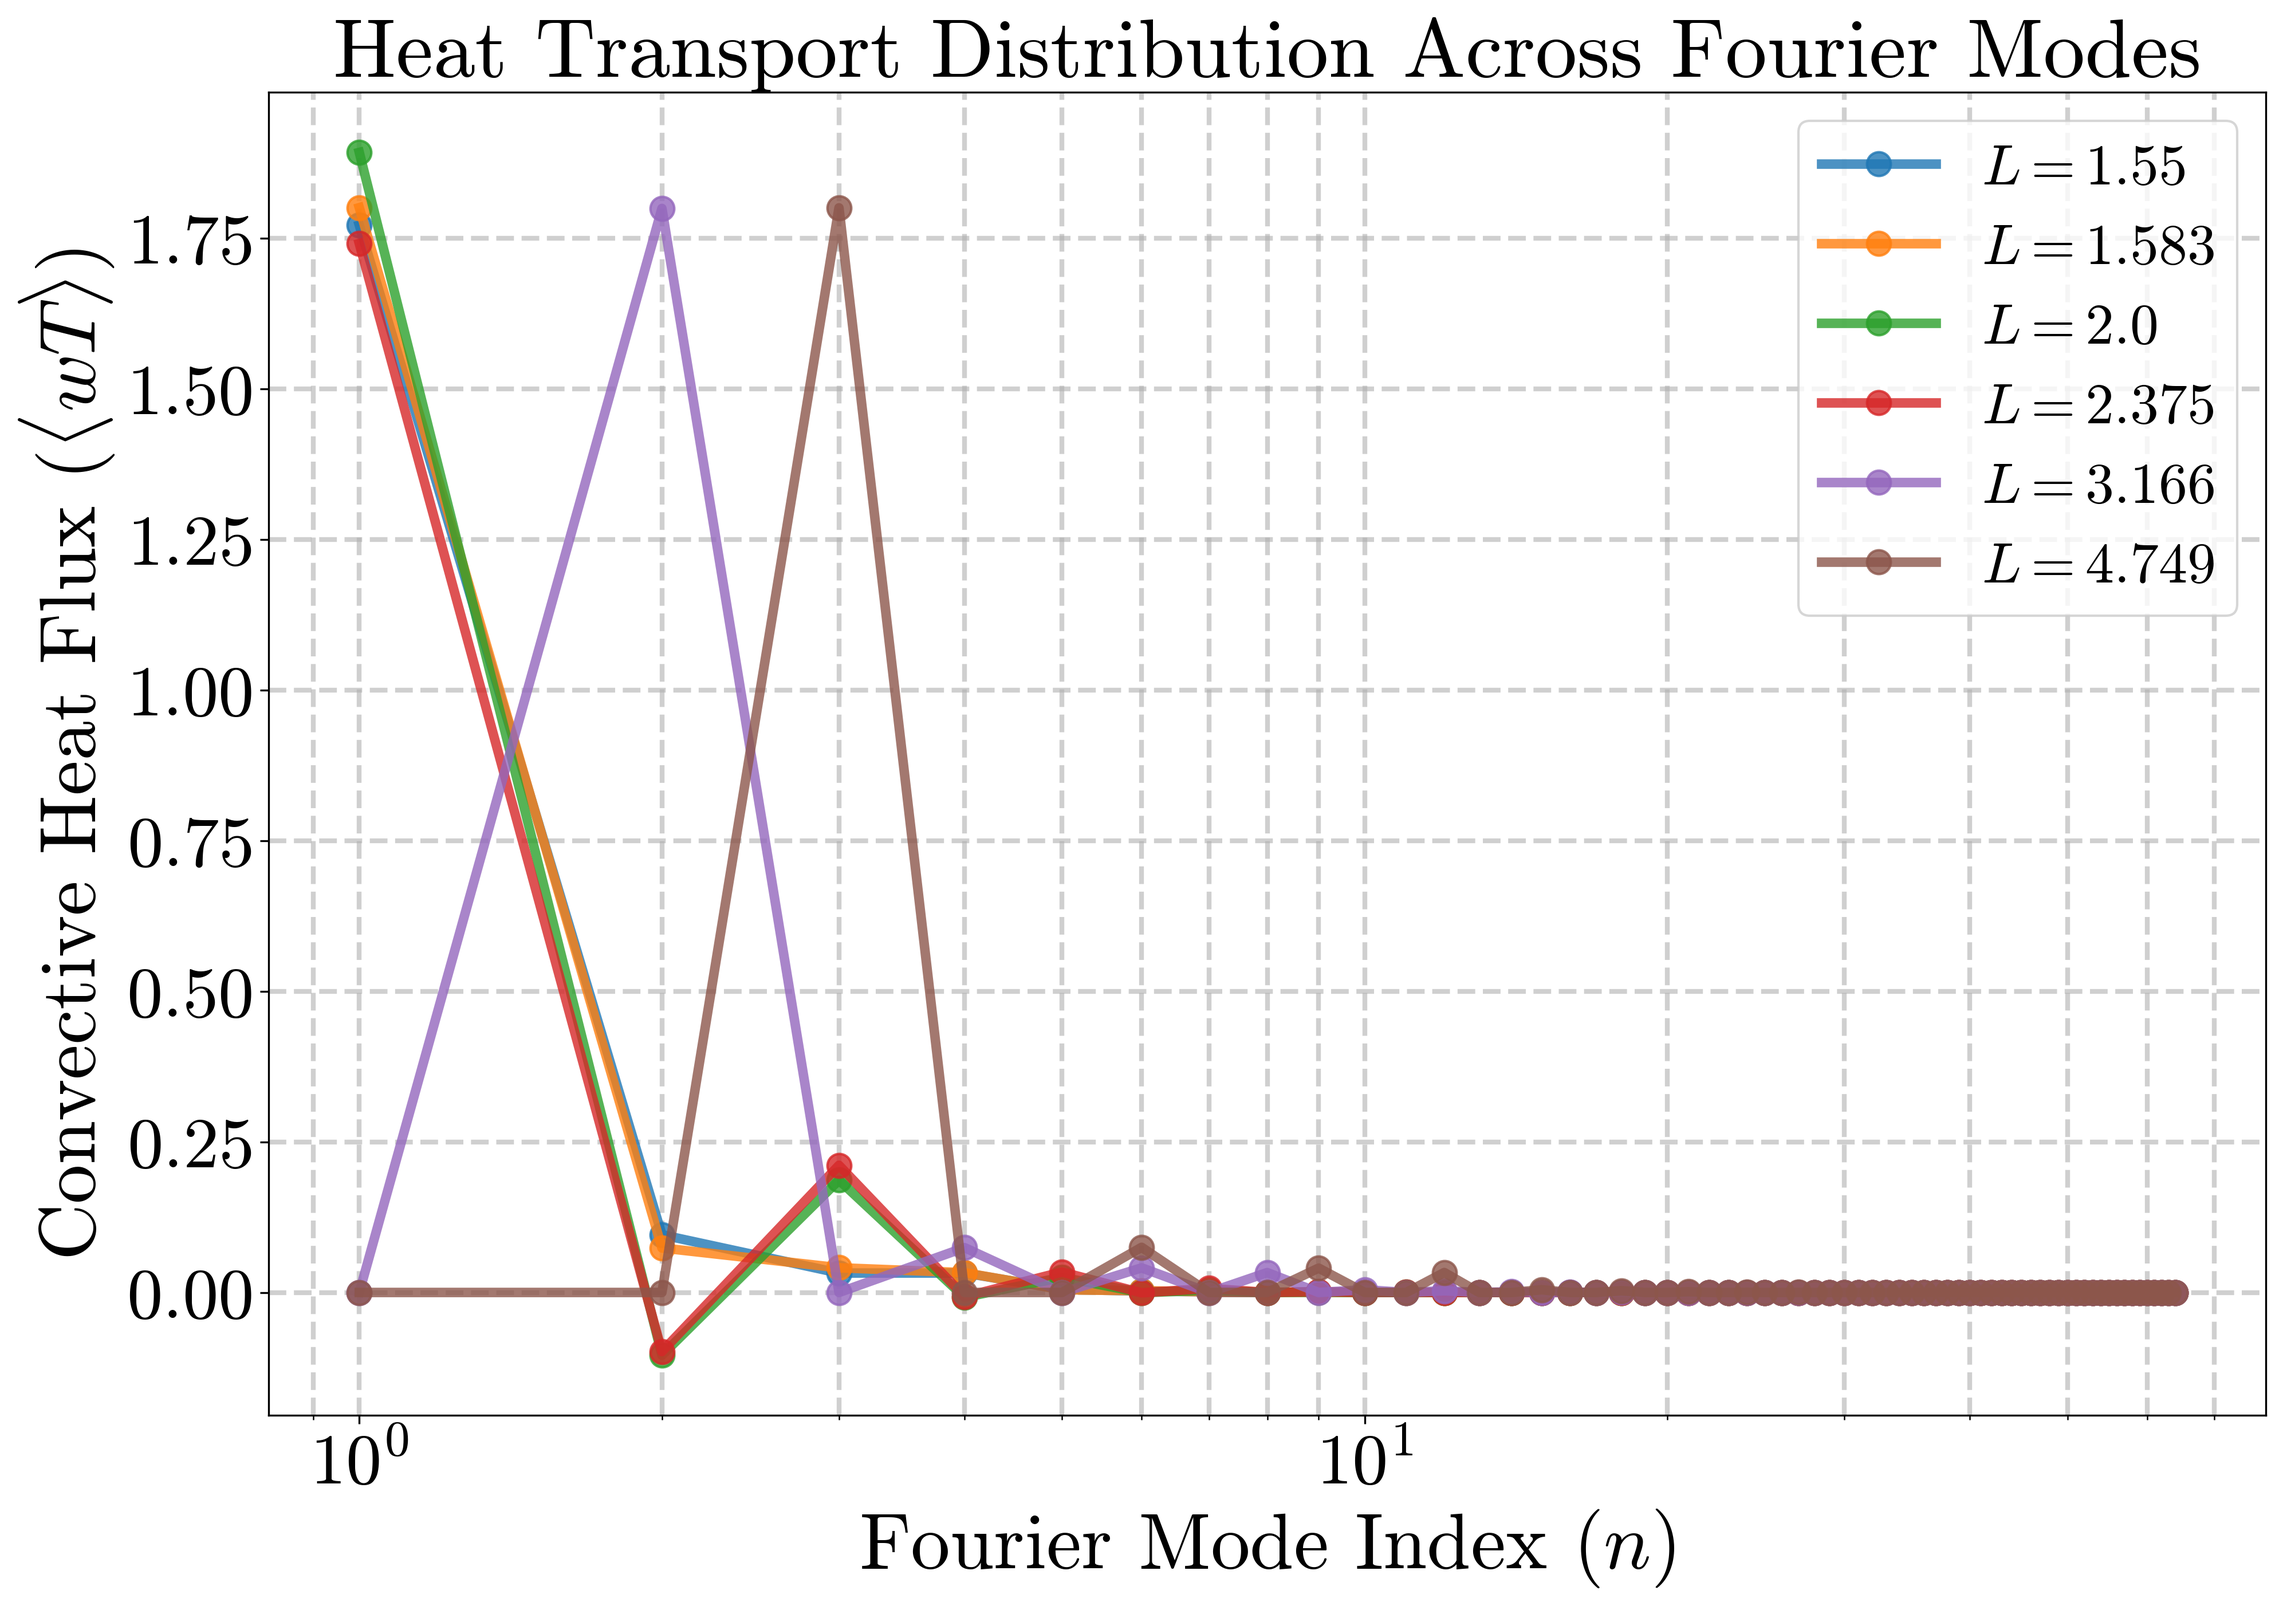
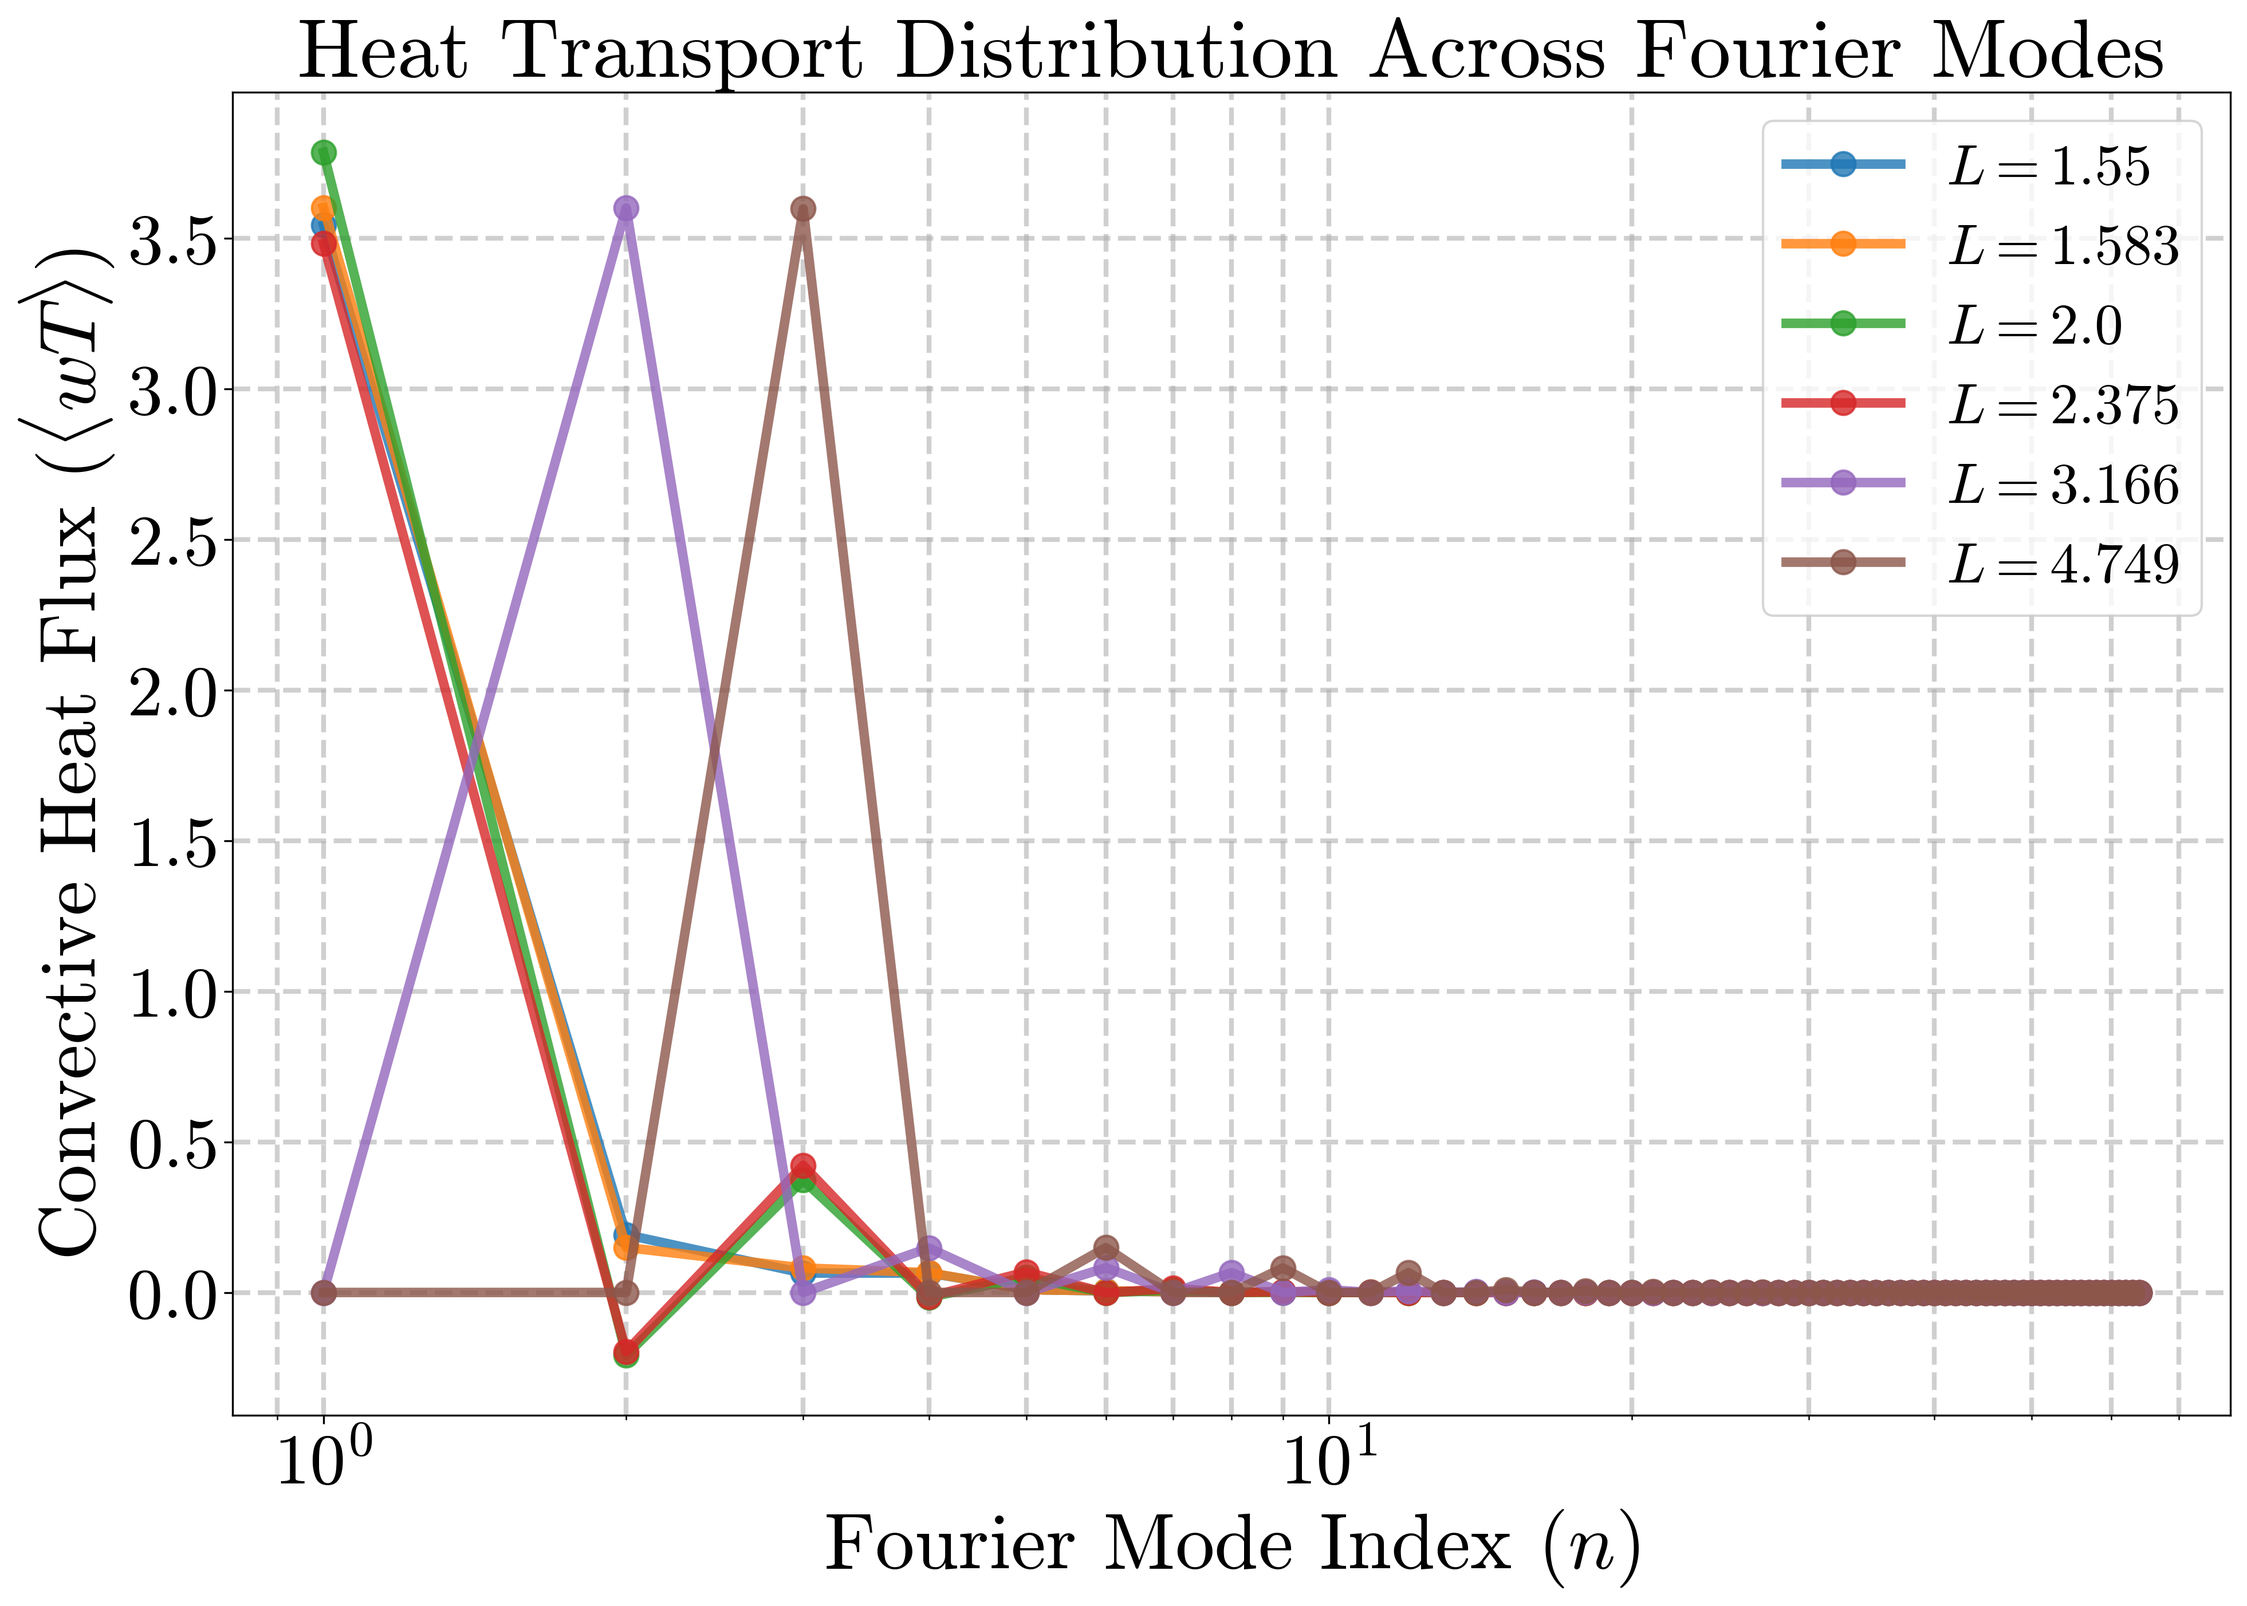
Updates 29/07/26

diff --git a/Boussinesq_Equations/dominant_node.py b/Boussinesq_Equations/dominant_node.py
@@ -75,6 +75,9 @@ for Lx in Lx_values:
     w_hat = np.fft.rfft(w, axis=1)
 
     flux_spectrum_2d = np.real(w_hat * np.conj(T_hat)) / (Nx**2)
+
+    flux_spectrum_2d[:, 1:] *= 2
+
     flux_per_mode_time = np.trapz(flux_spectrum_2d, x=z, axis=2)
 
     # Average over the ENTIRE loaded dataset, since the simulation 
